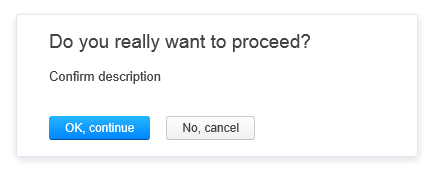
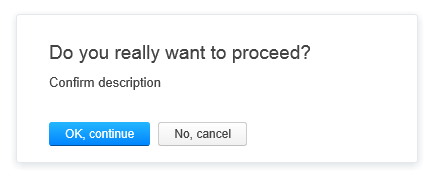
RG-1163 apply design fixes for dialogs
Former-commit-id: e5e51bd8fa4ac1e329c46eee9d7caf9c1cfee7fa

Changed region(s): [[0.0899, 0.1714, 0.7189, 0.3429], [0.0899, 0.6571, 0.5991, 0.8286], [0.0899, 0.4, 0.3894, 0.4857]]

diff --git a/components/dialog-ng/dialog-ng.examples.html b/components/dialog-ng/dialog-ng.examples.html
@@ -198,3 +198,72 @@
     require('ring-ui/components/input-size/input-size.scss');
   </file>
 </example>
+
+<example name="Dialog with control_small">
+  <file type="html">
+    <div class="ring-dialog__wrapper active">
+      <div class="ring-dialog__container">
+        <div class="ring-dialog__header">
+          <span
+            class="ring-dialog__header__title">Dialog with control_small</span>
+        </div>
+
+        <form class="ring-dialog__content ring-form">
+          <div class="ring-form__group">
+            <label class="ring-form__label" for="dialog__key">Small</label>
+            <div class="ring-form__control ring-form__control_small">
+              <input id="dialog__key" class="ring-input ring-input-size_md"
+                type="text">
+              <div class="ring-error-bubble active">I am a tip</div>
+              <div class="ring-form__control__description">
+                There is a small margin before control
+              </div>
+            </div>
+          </div>
+        </form>
+
+        <div class="ring-dialog__footer">
+          <div class="ring-dialog__footer__spacer"></div>
+          <button
+            class="ring-dialog__footer__item_first ring-dialog__footer__item ring-button ring-button_blue">
+            Save
+          </button>
+          <button class="ring-dialog__footer__item ring-button">Cancel</button>
+        </div>
+      </div>
+    </div>
+  </file>
+
+  <file type="js">
+    require('ring-ui/components/dialog-ng/dialog-ng.scss');
+    require('ring-ui/components/input/input.scss');
+    require('ring-ui/components/form/form.scss');
+    require('ring-ui/components/panel/panel.scss');
+    require('ring-ui/components/button/button.scss');
+    require('ring-ui/components/input-size/input-size.scss');
+  </file>
+</example>
+
+<example name="The smallest dialog">
+  <file type="html">
+    <div class="ring-dialog__wrapper active">
+      <div class="ring-dialog__container">
+        <div class="ring-dialog__header">
+          <span class="ring-dialog__header__title">Small</span>
+        </div>
+        <div class="ring-dialog__content">
+          <div style="text-align: center"><b>Hello!</b></div>
+          <div style="text-align: center">I am a message</div>
+        </div>
+      </div>
+    </div>
+  </file>
+
+  <file type="js">
+    require('ring-ui/components/dialog-ng/dialog-ng.scss');
+    require('ring-ui/components/input/input.scss');
+    require('ring-ui/components/form/form.scss');
+    require('ring-ui/components/panel/panel.scss');
+    require('ring-ui/components/button/button.scss');
+  </file>
+</example>

diff --git a/components/dialog/dialog.examples.html b/components/dialog/dialog.examples.html
@@ -59,72 +59,3 @@
     render(<DialogDemo />, document.getElementById('dialog'));
   </file>
 </example>
-
-<example name="Dialog with control_small">
-  <file type="html">
-    <div class="ring-dialog__wrapper active">
-      <div class="ring-dialog__container">
-        <div class="ring-dialog__header">
-          <span
-            class="ring-dialog__header__title">Dialog with control_small</span>
-        </div>
-
-        <form class="ring-dialog__content ring-form">
-          <div class="ring-form__group">
-            <label class="ring-form__label" for="dialog__key">Small</label>
-            <div class="ring-form__control ring-form__control_small">
-              <input id="dialog__key" class="ring-input ring-input-size_md"
-                type="text">
-              <div class="ring-error-bubble active">I am a tip</div>
-              <div class="ring-form__control__description">
-                There is a small margin before control
-              </div>
-            </div>
-          </div>
-        </form>
-
-        <div class="ring-dialog__footer">
-          <div class="ring-dialog__footer__spacer"></div>
-          <button
-            class="ring-dialog__footer__item_first ring-dialog__footer__item ring-button ring-button_blue">
-            Save
-          </button>
-          <button class="ring-dialog__footer__item ring-button">Cancel</button>
-        </div>
-      </div>
-    </div>
-  </file>
-
-  <file type="js">
-    require('ring-ui/components/dialog-ng/dialog-ng.scss');
-    require('ring-ui/components/input/input.scss');
-    require('ring-ui/components/form/form.scss');
-    require('ring-ui/components/panel/panel.scss');
-    require('ring-ui/components/button/button.scss');
-    require('ring-ui/components/input-size/input-size.scss');
-  </file>
-</example>
-
-<example name="The smallest dialog">
-  <file type="html">
-    <div class="ring-dialog__wrapper active">
-      <div class="ring-dialog__container">
-        <div class="ring-dialog__header">
-          <span class="ring-dialog__header__title">Small</span>
-        </div>
-        <div class="ring-dialog__content">
-          <div style="text-align: center"><b>Hello!</b></div>
-          <div style="text-align: center">I am a message</div>
-        </div>
-      </div>
-    </div>
-  </file>
-
-  <file type="js">
-    require('ring-ui/components/dialog-ng/dialog-ng.scss');
-    require('ring-ui/components/input/input.scss');
-    require('ring-ui/components/form/form.scss');
-    require('ring-ui/components/panel/panel.scss');
-    require('ring-ui/components/button/button.scss');
-  </file>
-</example>

diff --git a/components/island/island.css b/components/island/island.css
@@ -6,27 +6,14 @@
 
   background-color: #FFF;
   box-shadow: 0 2px 16px rgba(0, 42, 76, 0.15);
-
-  &_stack-right {
-    border-right: none;
-    border-top-right-radius: 0;
-    border-bottom-right-radius: 0;
-
-    box-shadow: none;
-  }
-
-  &_stack-left {
-    border-top-left-radius: 0;
-    border-bottom-left-radius: 0;
-
-    box-shadow: none;
-  }
 }
 
 .header {
-  min-height: calc(unit*4 - 2);
-  line-height: calc(unit*4 - 2);
+  min-height: calc(unit*4);
+  line-height: calc(unit*4);
+}
 
+.withBottomBorder {
   border-bottom: 1px solid rgba(0, 42, 76, 0.1);
   border-top-left-radius: border-radius;
   border-top-right-radius: border-radius;

diff --git a/components/island/header.js b/components/island/header.js
@@ -5,12 +5,15 @@ import styles from './island.css';
 
 export default class Header extends RingComponent {
   static propTypes = {
-    className: PropTypes.string
+    className: PropTypes.string,
+    border: PropTypes.bool
   };
 
   render() {
-    const {children, className, ...restProps} = this.props;
-    const classes = classNames(styles.header, className);
+    const {children, className, border, ...restProps} = this.props;
+    const classes = classNames(styles.header, className, {
+      [styles.withBottomBorder]: border
+    });
 
     return (
       <div

diff --git a/components/confirm/confirm.css b/components/confirm/confirm.css
@@ -1,10 +1,12 @@
-@value unit from '../global/global.css';
+@value unit, font-size from '../global/global.css';
 
 .text {
   font-size: 19px;
+  line-height: 28px;
+  padding-top: unit;
 }
 
 .description {
-  margin: calc(unit * 2) 0;
-  font-size: 13px;
+  margin-top: unit;
+  font-size: font-size;
 }

diff --git a/components/island/island.examples.html b/components/island/island.examples.html
@@ -10,7 +10,7 @@
 
      const renderIslandDemo = () => (
        <Island>
-         <Header>Title</Header>
+         <Header border>Title</Header>
          <Content>Content</Content>
        </Island>
      );

diff --git a/components/dialog/dialog.css b/components/dialog/dialog.css
@@ -26,6 +26,10 @@
     padding: calc(unit * 2) calc(unit * 4);
     background-color: transparent;
   }
+
+  & :global(.ring-panel .ring-button) {
+      margin-right: unit;
+  }
 }
 
 .bodyWithoutScroll {
